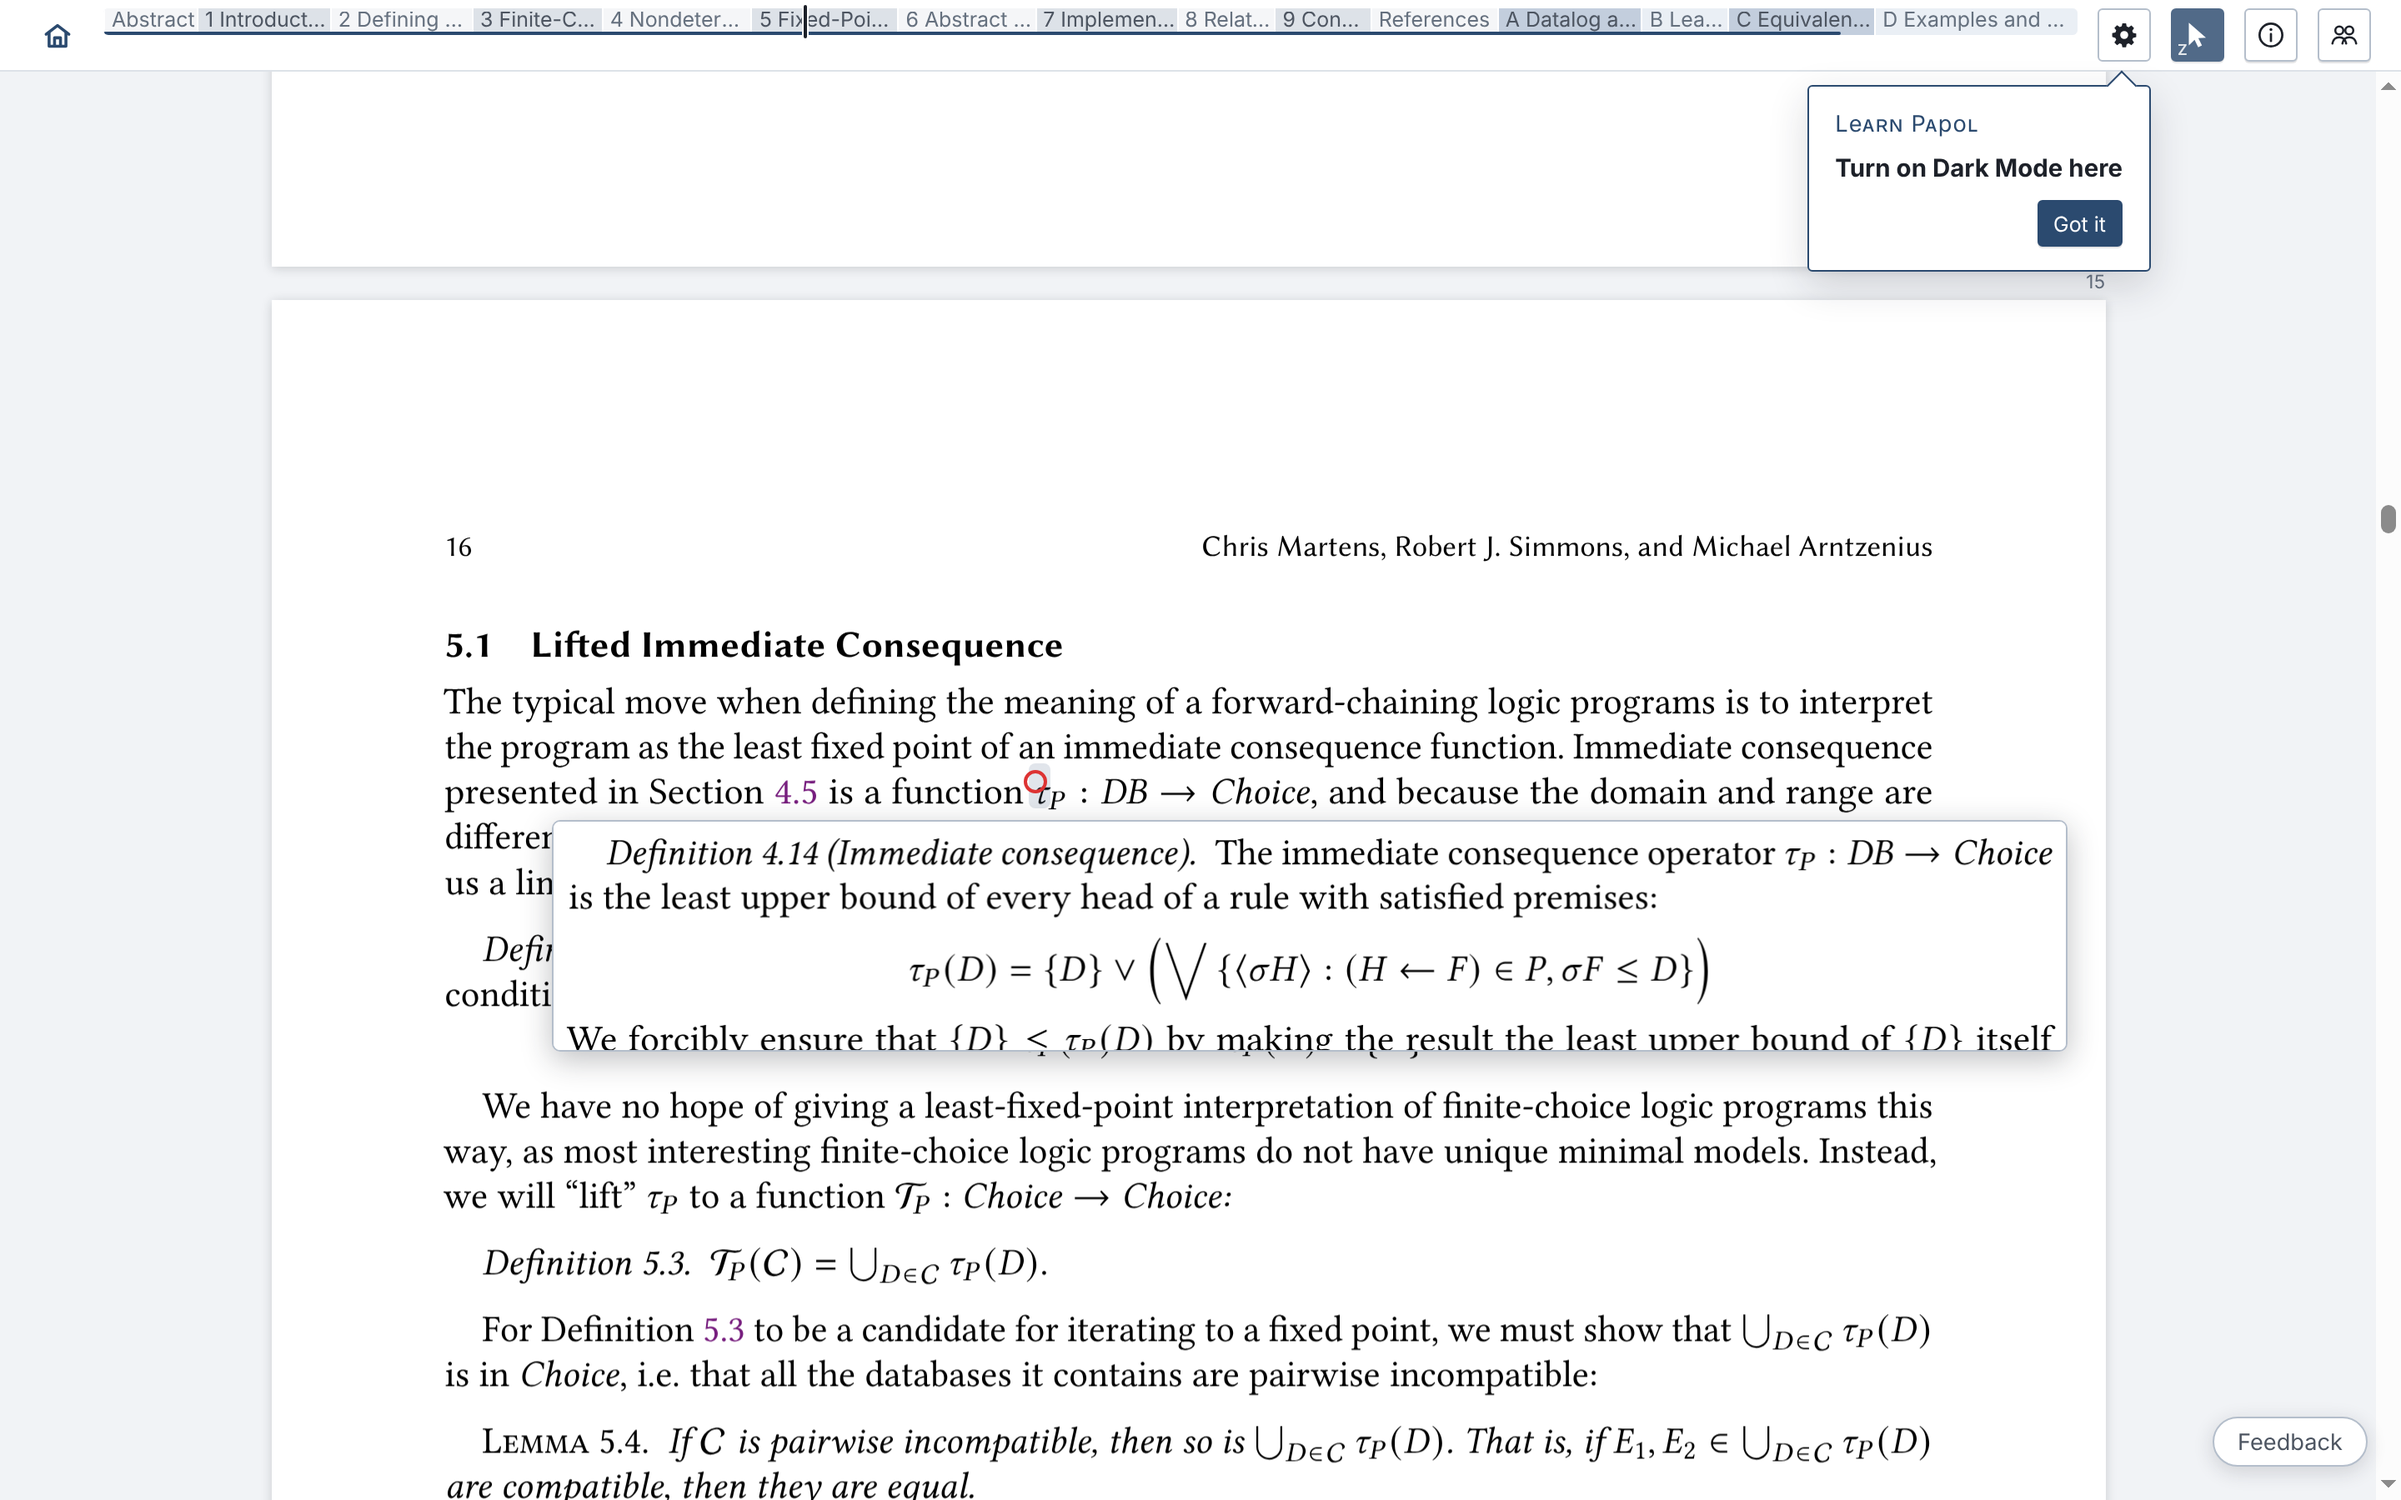
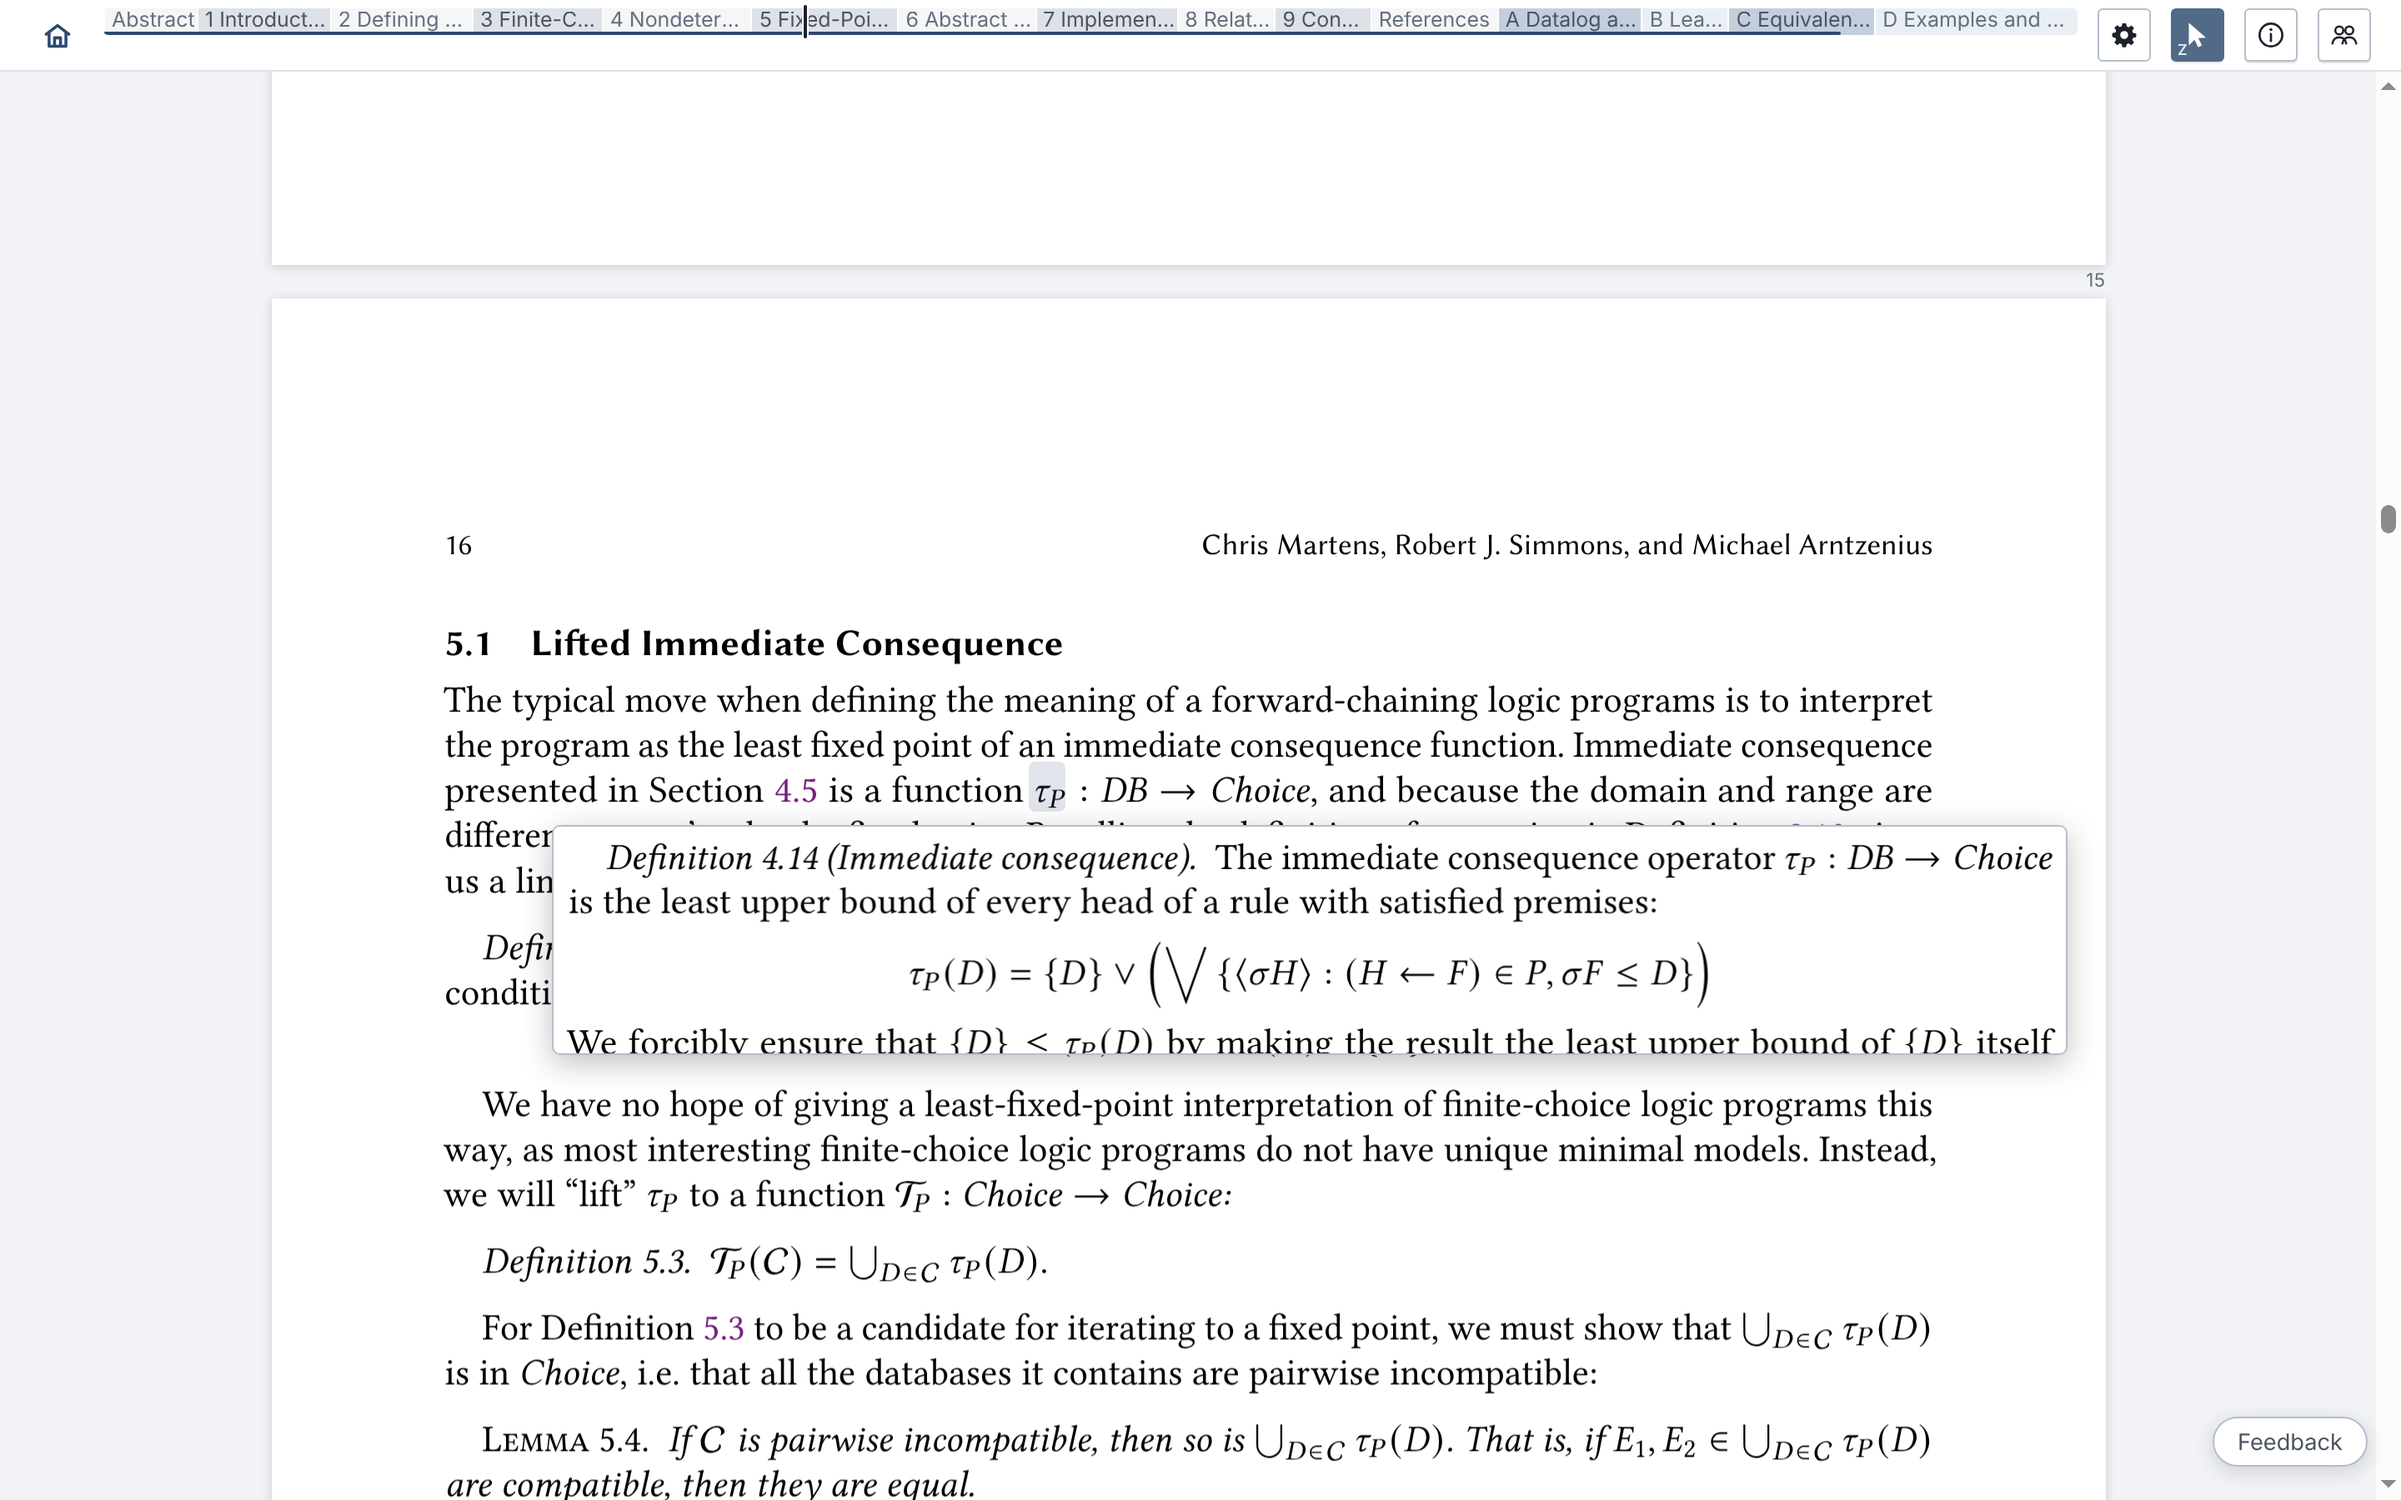
A term's pieces on one line are one link
A symbol's letters are separate pieces of text (𝜏 and its subscript 𝑃),
and each was a link of its own, so the pointer lit only the one under
it. The pieces of one printing that share a line are now one box.

Claude-Session: https://claude.ai/code/session_01PQZzMS58jHomUHnndK5m6T

diff --git a/viewer/src/references.js b/viewer/src/references.js
@@ -212,11 +212,33 @@ async function termLinks(doc, pageNumber, terms) {
     return x >= outer.x && x <= outer.x + outer.w && y >= outer.y && y <= outer.y + outer.h;
   };
   return findTerms(text, terms).flatMap(({ term, index, length }) => (
-    linkPieces(from, index, length)
+    lineBoxes(linkPieces(from, index, length)
       .filter((piece) => Array.isArray(items[piece.itemIndex].transform))
-      .map((piece) => ({ kind: 'term', label: term.term, defined: term.label, spot: spotOf(term), ...itemBox(items[piece.itemIndex], viewport, piece.start, piece.end) }))
+      .map((piece) => itemBox(items[piece.itemIndex], viewport, piece.start, piece.end)))
+      .map((box) => ({ kind: 'term', label: term.term, defined: term.label, spot: spotOf(term), ...box }))
       .filter((link) => !(term.page === pageNumber && inside(link, term.box)))
   ));
+}
+
+/**
+ * One printing of a term as a box a line: a paper sets a symbol's letters
+ * as pieces of their own ("𝜏" and its subscript "𝑃"), and the pieces on one
+ * line are one thing to point at. Pieces are of a line when they share
+ * some of its height.
+ */
+export function lineBoxes(boxes) {
+  const lines = [];
+  for (const box of boxes) {
+    const line = lines[lines.length - 1];
+    if (line && Math.min(line.y + line.h, box.y + box.h) - Math.max(line.y, box.y) > 0) {
+      const x = Math.min(line.x, box.x), y = Math.min(line.y, box.y);
+      line.w = Math.max(line.x + line.w, box.x + box.w) - x;
+      line.h = Math.max(line.y + line.h, box.y + box.h) - y;
+      line.x = x;
+      line.y = y;
+    } else lines.push({ ...box });
+  }
+  return lines;
 }
 
 /**

diff --git a/viewer/src/references.test.js b/viewer/src/references.test.js
@@ -572,3 +572,13 @@ test('a destination under a column that is not the last stays on its page', asyn
   const lastColumn = foldDoc({ 12: [...left, ...right], 13: foldLines([640, 628, 616]) }, [{}, { name: 'XYZ' }, 250, 71]);
   assert.equal((await overTheFold(lastColumn, 'theorem.4.9', spot)).page, 13);
 });
+
+test("a term's pieces on one line are one box, and a term over two lines is a box a line", async () => {
+  const { lineBoxes } = await import('./references.js');
+  // "𝜏" and its subscript "𝑃", set a little lower and smaller.
+  const [one, ...more] = lineBoxes([{ x: 0.3, y: 0.5, w: 0.01, h: 0.012 }, { x: 0.31, y: 0.506, w: 0.008, h: 0.008 }]);
+  assert.equal(more.length, 0);
+  assert.deepEqual(Object.values(one).map((n) => Math.round(n * 1000)), [300, 500, 18, 14]);
+  // "typing" at a line's end and "context" at the next one's start.
+  assert.equal(lineBoxes([{ x: 0.8, y: 0.5, w: 0.1, h: 0.012 }, { x: 0.1, y: 0.515, w: 0.1, h: 0.012 }]).length, 2);
+});
